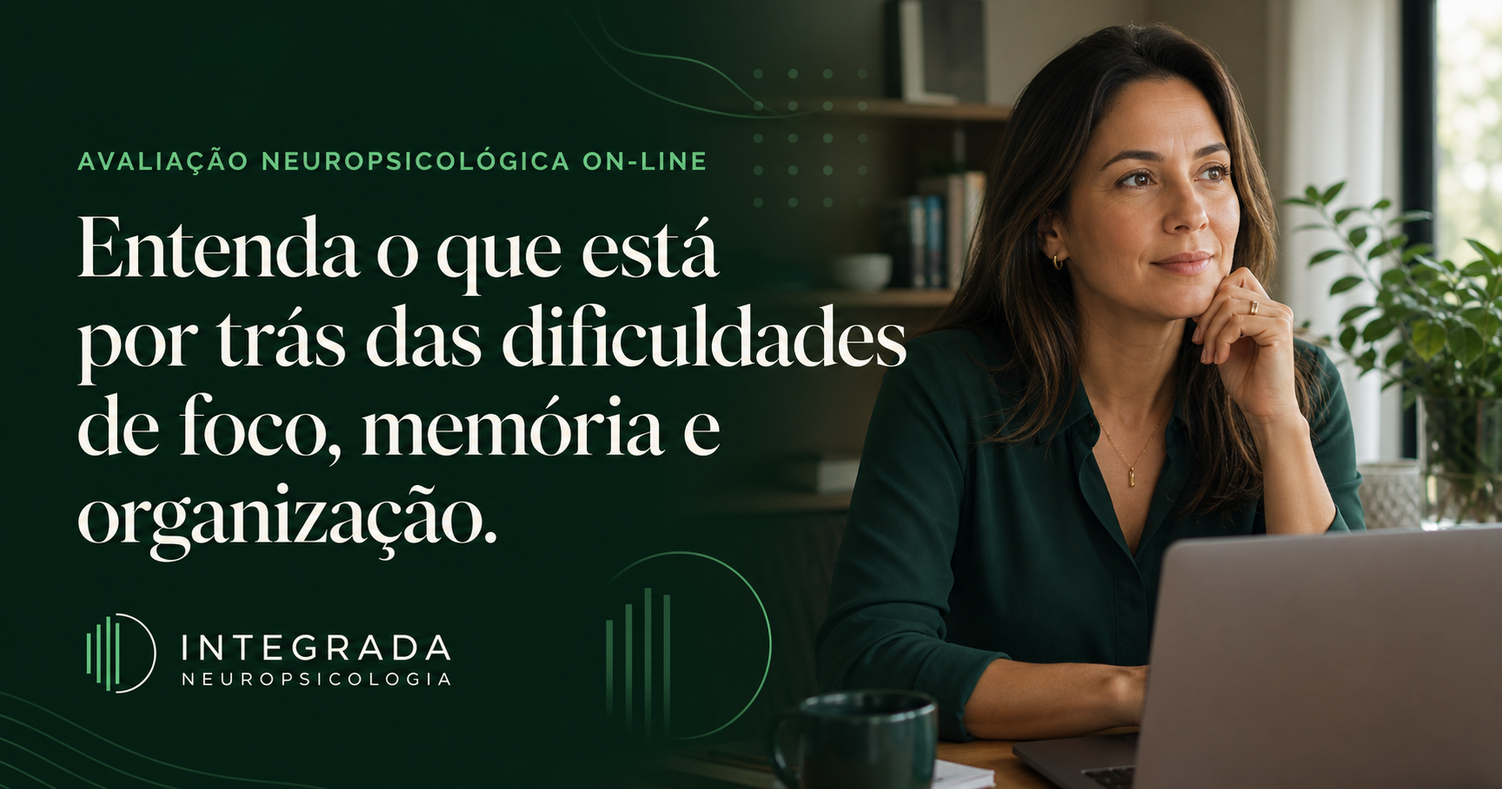
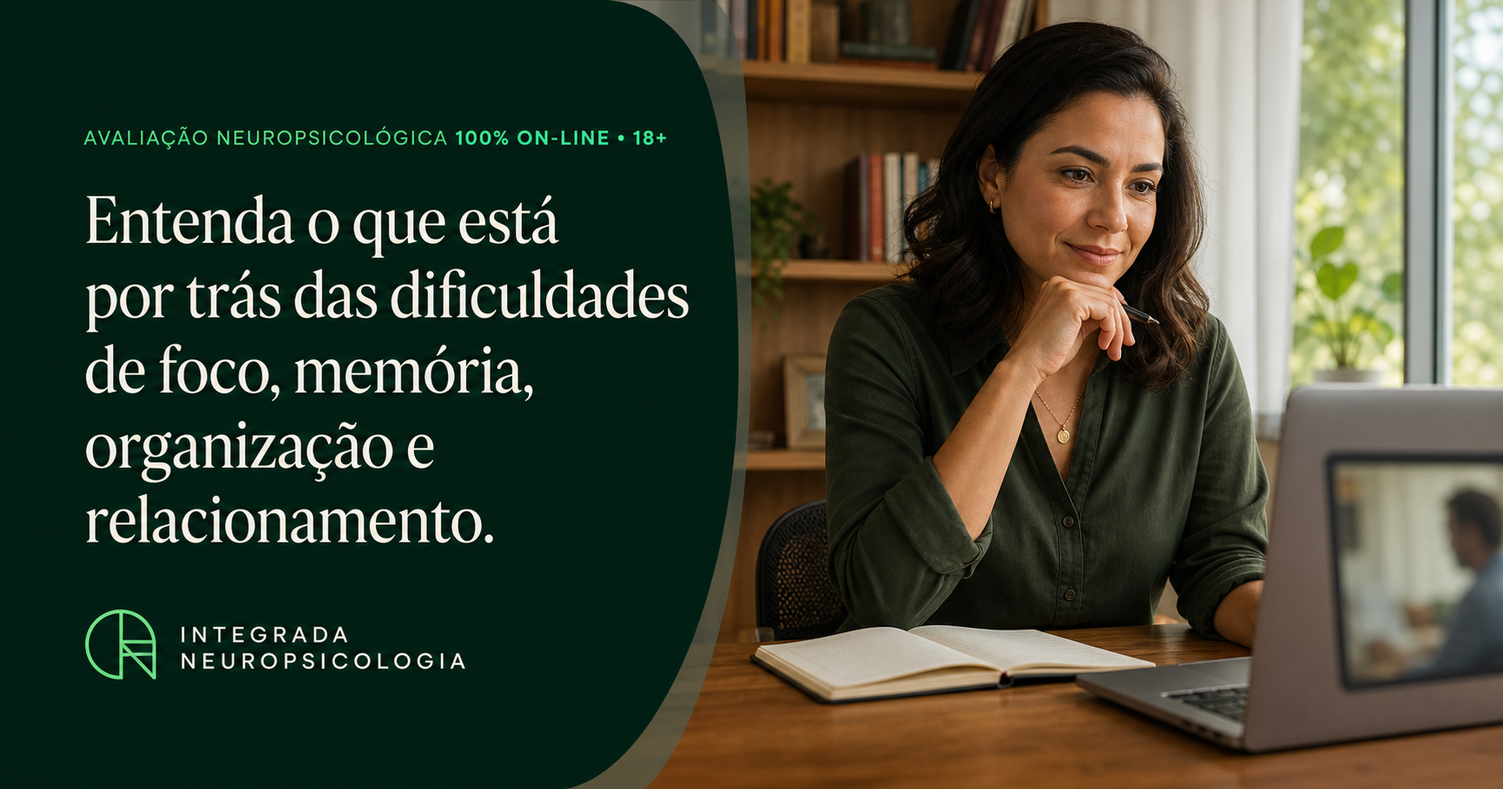
Ajusta landing da avaliação on-line

diff --git a/app/page.tsx b/app/page.tsx
@@ -2,40 +2,44 @@ import Image from "next/image";
 import { OnlineAssessmentLeadForm } from "@/components/OnlineAssessmentLeadForm";
 import { whatsappUrl } from "@/lib/site-data";
 
-const directContact = whatsappUrl("Olá! Quero saber se a avaliação neuropsicológica on-line para adultos é indicada para mim.");
+const directContact = whatsappUrl("Olá! Quero saber como funciona a avaliação neuropsicológica 100% on-line para brasileiros com 18 anos ou mais.");
 
 const signals = [
   ["Foco que escapa", "Você perde o fio em reuniões, leituras ou conversas, mesmo quando tenta prestar atenção."],
   ["Rotina difícil de organizar", "Prazos, compromissos e tarefas parecem exigir muito mais esforço do que deveriam."],
   ["Esquecimentos frequentes", "Informações, objetos e decisões importantes somem da memória no meio do dia."],
   ["Produtividade instável", "Há dias de hiperfoco e outros em que começar ou concluir algo parece impossível."],
-  ["Sobrecarga mental", "Você mantém tudo funcionando por fora, mas sente cansaço, culpa ou frustração por dentro."],
+  ["Sobrecarga sensorial", "Luzes, sons, cheiros, texturas ou ambientes movimentados podem causar exaustão e exigir tempo para se recuperar."],
+  ["Interações que exigem muito", "Conversas em grupo, códigos implícitos e expectativas sociais podem exigir monitoramento constante e deixar você esgotado."],
+  ["Mudanças que desorganizam", "Alterações inesperadas de planos, rotinas ou contextos podem gerar desconforto e dificultar a retomada do dia."],
+  ["Cansaço de se adaptar", "Você ensaia respostas, imita comportamentos ou esconde desconfortos para parecer dar conta — e termina exausto."],
   ["Dúvidas sem resposta", "TDAH, autismo, ansiedade ou burnout parecem explicar partes do que acontece — mas não o todo."],
 ] as const;
 
 const benefits = [
   ["Investigação além do sintoma", "Cognição, emoções, histórico e rotina são integrados para compreender o impacto real das dificuldades."],
-  ["Comodidade com critério clínico", "As sessões acontecem sem deslocamento quando o formato remoto é adequado à sua demanda."],
+  ["Processo planejado para o on-line", "Da entrevista à devolutiva, todas as etapas são organizadas para acontecer a distância, com procedimentos adequados à modalidade."],
   ["Processo explicado com clareza", "Você entende o objetivo de cada etapa e quais perguntas a avaliação busca responder."],
   ["Devolutiva que orienta", "Os resultados são apresentados em linguagem acessível, com recomendações e encaminhamentos quando necessários."],
 ] as const;
 
 const process = [
-  ["01", "Contato e triagem", "A equipe conhece sua demanda e verifica se o formato on-line é clínica e tecnicamente indicado."],
+  ["01", "Contato e alinhamento", "A equipe conhece sua demanda, explica como funciona a avaliação on-line e orienta sobre as condições necessárias para começar."],
   ["02", "Entrevista inicial", "Histórico, dificuldades atuais e objetivos são organizados para planejar a investigação."],
   ["03", "Sessões de avaliação", "Procedimentos e instrumentos adequados à modalidade remota são selecionados para o seu caso, conforme as normas profissionais."],
   ["04", "Integração dos dados", "As informações são analisadas em conjunto, considerando funcionamento cognitivo, emocional e cotidiano."],
-  ["05", "Devolutiva e laudo", "Você recebe uma explicação clara dos achados, documentação cabível e orientação para os próximos passos."],
+  ["05", "Devolutiva e documentação", "Você recebe uma explicação clara dos achados, documentação cabível e orientação para os próximos passos."],
 ] as const;
 
 const faqs = [
-  ["Para quem é a avaliação neuropsicológica on-line?", "Para adultos que desejam compreender dificuldades cognitivas ou comportamentais com impacto na rotina, nos estudos, no trabalho ou nos relacionamentos. A indicação depende de uma triagem inicial."],
-  ["Ela pode investigar TDAH ou autismo em adultos?", "Pode contribuir para a investigação dessas e de outras hipóteses. Nenhum teste isolado confirma um diagnóstico, e a avaliação não garante que uma hipótese inicial será confirmada."],
-  ["Todo o processo acontece on-line?", "Somente quando a triagem identifica que o formato remoto é adequado. Alguns casos podem exigir etapas presenciais ou investigação complementar."],
-  ["Os instrumentos são adequados ao formato remoto?", "Sim. A escolha depende do objetivo da avaliação e considera apenas procedimentos e instrumentos adequados à aplicação on-line, conforme as normas profissionais vigentes."],
-  ["Quanto tempo dura?", "O processo costuma ser organizado em 8 encontros. A duração e o planejamento final dependem da demanda e são confirmados após a triagem e a entrevista inicial."],
+  ["Para quem é a avaliação neuropsicológica on-line?", "Para brasileiros com 18 anos ou mais, no Brasil ou no exterior, que desejam compreender dificuldades cognitivas, emocionais ou comportamentais com impacto na rotina, nos estudos, no trabalho ou nos relacionamentos."],
+  ["Ela pode investigar TDAH ou autismo em pessoas com 18 anos ou mais?", "Pode contribuir para a investigação dessas e de outras hipóteses. Nenhum teste isolado confirma um diagnóstico, e a avaliação não garante que uma hipótese inicial será confirmada."],
+  ["Todo o processo acontece on-line?", "Sim. A avaliação foi planejada para acontecer integralmente on-line, da entrevista inicial à devolutiva e à entrega da documentação."],
+  ["Os instrumentos são adequados ao formato remoto?", "Sim. São selecionados procedimentos e instrumentos compatíveis com a aplicação on-line e com o objetivo da avaliação, conforme as normas profissionais vigentes."],
+  ["Quanto tempo dura?", "O processo costuma ser organizado em torno de 8 encontros. A duração e o planejamento são definidos conforme a demanda e organizados a partir da entrevista inicial."],
   ["O que preciso para participar?", "Em geral, conexão estável, câmera, computador ou notebook e um ambiente silencioso e privativo. As orientações específicas são fornecidas antes do início."],
-  ["Receberei uma devolutiva?", "Sim. Ao final, os resultados são explicados e a documentação correspondente ao escopo da avaliação é apresentada, quando indicada."],
+  ["Vocês atendem brasileiros que vivem no exterior?", "Sim. O atendimento on-line também recebe brasileiros que vivem em outros países. Os horários dos encontros são combinados considerando o fuso de cada pessoa."],
+  ["Receberei uma devolutiva?", "Sim. Ao final, os resultados são explicados e é apresentada a documentação correspondente ao escopo da avaliação e às normas aplicáveis."],
 ] as const;
 
 export default function Home() {
@@ -57,16 +61,16 @@ export default function Home() {
       <main>
         <section className="lp-hero" id="inicio">
           <div className="lp-hero-copy">
-            <span className="lp-kicker"><i aria-hidden="true" /> On-line • Adultos • Todo o Brasil</span>
-            <h1>Entenda o que está por trás das dificuldades de <em>foco, memória e organização.</em></h1>
+            <span className="lp-kicker"><i aria-hidden="true" /> On-line • Brasileiros 18+ • Brasil e exterior</span>
+            <h1>Entenda o que está por trás das dificuldades de <em>foco, memória, organização e relacionamento.</em></h1>
             <p className="lp-hero-lede">Uma investigação clínica cuidadosa para compreender como essas dificuldades afetam sua rotina, seu trabalho e seus relacionamentos — com devolutiva clara e orientação sobre os próximos passos.</p>
             <ul className="lp-hero-points">
               <li><span aria-hidden="true">✓</span> Atendimento individual e humanizado</li>
-              <li><span aria-hidden="true">✓</span> Sessões on-line, quando indicadas</li>
-              <li><span aria-hidden="true">✓</span> Triagem para confirmar a modalidade on-line</li>
+              <li><span aria-hidden="true">✓</span> Avaliação planejada para ser 100% on-line</li>
+              <li><span aria-hidden="true">✓</span> Brasileiros com 18 anos ou mais, no Brasil e no exterior</li>
             </ul>
             <div className="lp-hero-actions">
-              <a className="lp-primary-button" href={directContact} target="_blank" rel="noreferrer">Quero saber se é indicada para mim <span aria-hidden="true">→</span></a>
+              <a className="lp-primary-button" href={directContact} target="_blank" rel="noreferrer">Quero conversar com a equipe <span aria-hidden="true">→</span></a>
               <a className="lp-quiet-link" href="#como-funciona">Entender como funciona <span aria-hidden="true">↓</span></a>
             </div>
             <p className="lp-hero-note">Você não precisa chegar com um diagnóstico pronto. O primeiro passo é entender o que tem acontecido.</p>
@@ -74,18 +78,18 @@ export default function Home() {
 
           <div className="lp-hero-panel">
             <div className="lp-hero-image">
-              <Image src="/assets/online.avif" alt="Adulto em atendimento neuropsicológico on-line" width={306} height={221} sizes="(max-width: 900px) 100vw, 42vw" priority unoptimized />
-              <div className="lp-image-badge"><strong>14+ anos</strong><span>de experiência clínica</span></div>
+              <Image src="/assets/hero-online.webp" alt="Pessoa adulta participando de avaliação neuropsicológica on-line em ambiente privativo" width={1200} height={630} sizes="(max-width: 900px) 200vw, 84vw" priority unoptimized />
+              <div className="lp-image-badge"><strong>Mais de 15 anos</strong><span>de experiência clínica</span></div>
             </div>
             <OnlineAssessmentLeadForm placement="hero" />
           </div>
         </section>
 
         <section className="lp-proof" aria-label="Diferenciais do atendimento">
-          <div><strong>100% on-line</strong><span>quando indicado na triagem</span></div>
-          <div><strong>Em torno de 8 encontros</strong><span>planejamento confirmado na triagem</span></div>
-          <div><strong>Documentação digital</strong><span>conforme o escopo da avaliação</span></div>
-          <div><strong>Orientação prática</strong><span>para os próximos passos</span></div>
+          <div><strong>100% on-line</strong><span>da entrevista à devolutiva</span></div>
+          <div><strong>Brasileiros 18+</strong><span>no Brasil e no exterior</span></div>
+          <div><strong>Em torno de 8 encontros</strong><span>planejamento individualizado</span></div>
+          <div><strong>Documentação digital</strong><span>com devolutiva individual</span></div>
         </section>
 
         <section className="lp-signals" id="para-quem">
@@ -104,14 +108,15 @@ export default function Home() {
             ))}
           </div>
           <div className="lp-inline-cta">
-            <p><strong>Esses sinais não definem um diagnóstico.</strong> Eles mostram que pode ser útil olhar para o conjunto com mais cuidado.</p>
-            <a className="lp-dark-button" href={whatsappUrl("Olá! Quero conversar sobre dificuldades de foco, memória ou organização e entender se devo fazer uma avaliação on-line.")} target="_blank" rel="noreferrer">Conversar sobre minhas dificuldades <span aria-hidden="true">→</span></a>
+            <p><strong>Esses sinais podem ocorrer por diferentes motivos e não definem um diagnóstico.</strong> Eles mostram que pode ser útil olhar para o conjunto com mais cuidado.</p>
+            <a className="lp-dark-button" href={whatsappUrl("Olá! Quero conversar sobre dificuldades de foco, memória, organização ou relacionamento e entender melhor a avaliação neuropsicológica on-line.")} target="_blank" rel="noreferrer">Conversar sobre minhas dificuldades <span aria-hidden="true">→</span></a>
           </div>
         </section>
 
         <section className="lp-clarity">
           <div className="lp-clarity-visual">
-            <Image src="/assets/adulto.avif" alt="Adulto durante uma avaliação neuropsicológica" width={306} height={221} sizes="(max-width: 900px) 100vw, 45vw" unoptimized />
+            <span className="lp-clarity-orbit" aria-hidden="true" />
+            <span className="lp-clarity-dots" aria-hidden="true">•••••••••</span>
             <div className="lp-clarity-quote"><span>Não é um teste rápido.</span><strong>É um processo clínico que conecta história, funcionamento e vida real.</strong></div>
           </div>
           <div className="lp-clarity-copy">
@@ -133,7 +138,7 @@ export default function Home() {
           <div className="lp-professional-copy">
             <span className="lp-section-label">Responsabilidade profissional</span>
             <h2 id="responsavel-title">Você sabe quem responde pelo seu atendimento.</h2>
-            <p>A identificação profissional faz parte de um cuidado transparente. Desde o primeiro contato, a equipe explica o alcance, os limites e as etapas da avaliação.</p>
+            <p>Carla atua há mais de 15 anos na Psicologia e mantém um cuidado transparente. Desde o primeiro contato, a equipe explica o alcance, os limites e as etapas da avaliação.</p>
           </div>
           <div className="lp-professional-card">
             <span className="lp-professional-mark" aria-hidden="true">CL</span>
@@ -145,7 +150,7 @@ export default function Home() {
           <div className="lp-section-intro">
             <span className="lp-section-label">Como funciona</span>
             <h2>Um processo estruturado, adaptado à sua necessidade.</h2>
-            <p>Em geral, a avaliação on-line é organizada em 8 encontros. A triagem confirma o plano e se a modalidade remota é indicada.</p>
+            <p>Em geral, a avaliação é organizada em torno de 8 encontros e planejada para acontecer integralmente on-line. O plano é definido conforme a demanda e o histórico apresentados.</p>
           </div>
           <ol className="lp-process-list">
             {process.map(([number, title, text]) => (
@@ -157,20 +162,20 @@ export default function Home() {
           </ol>
           <aside className="lp-responsible-note">
             <span aria-hidden="true">i</span>
-            <p><strong>Orientação responsável:</strong> a avaliação on-line não é indicada para todos os casos. A triagem considera a demanda clínica, o ambiente, os recursos tecnológicos e a adequação dos procedimentos e instrumentos. Quando necessário, a equipe orienta uma alternativa presencial ou complementar.</p>
+            <p><strong>Orientação responsável:</strong> esta avaliação on-line é indicada para pessoas com 18 anos ou mais e foi planejada para acontecer integralmente a distância. Os procedimentos e instrumentos são selecionados para a modalidade remota e para os objetivos clínicos de cada pessoa.</p>
           </aside>
         </section>
 
         <section className="lp-fit">
           <div className="lp-fit-copy">
-            <span className="lp-section-label">Antes de começar</span>
-            <h2>O formato on-line combina com a sua realidade?</h2>
-            <p>Não é preciso decidir sozinho. No primeiro contato, a equipe verifica os pontos essenciais e explica o caminho mais seguro.</p>
+            <span className="lp-section-label">Preparação para os encontros</span>
+            <h2>O que você precisa para realizar a avaliação on-line?</h2>
+            <p>Antes do início, a equipe orienta sobre os recursos e combina os detalhes para que todas as etapas aconteçam com privacidade e estabilidade.</p>
           </div>
           <div className="lp-fit-cards">
             <article><span aria-hidden="true">01</span><h3>Privacidade</h3><p>Um ambiente silencioso e reservado para conversar e realizar as atividades.</p></article>
             <article><span aria-hidden="true">02</span><h3>Estrutura</h3><p>Computador ou notebook, câmera e conexão estável durante os encontros.</p></article>
-            <article><span aria-hidden="true">03</span><h3>Adequação clínica</h3><p>Uma demanda que possa ser investigada com procedimentos compatíveis com o remoto.</p></article>
+            <article><span aria-hidden="true">03</span><h3>Disponibilidade</h3><p>Tempo reservado para participar dos encontros e realizar as atividades com tranquilidade.</p></article>
           </div>
         </section>
 
@@ -178,10 +183,10 @@ export default function Home() {
           <div className="lp-contact-copy">
             <span className="lp-section-label">Seu próximo passo</span>
             <h2>Transforme a dúvida em uma conversa clara.</h2>
-            <p>Conte brevemente o que está acontecendo. A equipe explica a avaliação, verifica a indicação do formato on-line e orienta como seguir.</p>
+            <p>Conte brevemente o que está acontecendo. A equipe explica as etapas da avaliação on-line, esclarece suas dúvidas e orienta como começar.</p>
             <ul>
               <li><span aria-hidden="true">✓</span> Sem compromisso de iniciar a avaliação</li>
-              <li><span aria-hidden="true">✓</span> Atendimento para adultos em todo o Brasil</li>
+              <li><span aria-hidden="true">✓</span> Brasileiros com 18 anos ou mais, no Brasil e no exterior</li>
               <li><span aria-hidden="true">✓</span> Resposta diretamente pelo WhatsApp</li>
             </ul>
           </div>
@@ -211,12 +216,12 @@ export default function Home() {
 
       <footer className="lp-footer">
         <div className="lp-footer-brand"><Image src="/assets/logo.png" alt="" width={38} height={38} unoptimized /><span><strong>Integrada Neuropsicologia</strong><small>Avaliando o presente, transformando o futuro.</small></span></div>
-        <div><strong>Atendimento</strong><span>On-line para adultos em todo o Brasil</span><span>Responsável técnica: Carla Luciana da Conceição Lima • Psicóloga • CRP 08/39739</span><a href="tel:+5541992113665">(41) 99211-3665</a></div>
-        <div><strong>Clínica em Curitiba</strong><span>Rua Jacarezinho, 1266, Mercês<br />CEP 80810-130 — Curitiba/PR</span></div>
+        <div><strong>Atendimento</strong><span>On-line para pessoas com 18 anos ou mais — brasileiros no Brasil e em outros países</span><span>Responsável técnica: Carla Luciana da Conceição Lima • Psicóloga • CRP 08/39739</span><a href="tel:+5541992113665">(41) 99211-3665</a></div>
+        <div><strong>Endereço profissional</strong><span>Rua Jacarezinho, 1266, Mercês<br />CEP 80810-130 — Curitiba/PR</span></div>
         <p>© {new Date().getFullYear()} Integrada Neuropsicologia. O conteúdo deste site é informativo e não substitui avaliação individual.</p>
       </footer>
 
-      <a className="lp-floating-cta" href={directContact} target="_blank" rel="noreferrer" aria-label="Fazer triagem pelo WhatsApp">Fazer triagem <span aria-hidden="true">→</span></a>
+      <a className="lp-floating-cta" href={directContact} target="_blank" rel="noreferrer" aria-label="Conversar com a equipe pelo WhatsApp">Conversar pelo WhatsApp <span aria-hidden="true">→</span></a>
     </div>
   );
 }

diff --git a/app/globals.css b/app/globals.css
@@ -399,10 +399,10 @@ h1,h2 { font-family:"Madefor Display","Madefor",sans-serif; line-height:1.08; le
 .lp-hero-note { max-width:620px; margin:18px 0 0; color:#98aaa0; font-size:.75rem; }
 
 .lp-hero-panel { position:relative; z-index:2; overflow:hidden; border:1px solid rgba(255,255,255,.14); border-radius:28px; background:#fff; box-shadow:0 34px 80px rgba(0,0,0,.27); color:var(--lp-ink); }
-.lp-hero-image { position:relative; height:155px; overflow:hidden; background:#d8e1dc; }
-.lp-hero-image img { width:100%; height:100%; object-fit:cover; object-position:center 46%; filter:saturate(.82) contrast(.97); }
-.lp-image-badge { position:absolute; right:16px; bottom:14px; min-width:126px; display:flex; flex-direction:column; border-radius:14px; padding:11px 14px; background:rgba(10,39,27,.92); color:#fff; box-shadow:0 10px 25px rgba(0,0,0,.2); }
-.lp-image-badge strong { font-family:"Madefor Display",sans-serif; font-size:1.15rem; }
+.lp-hero-image { position:relative; height:225px; overflow:hidden; background:#173d2d; }
+.lp-hero-image img { width:200%; max-width:none; height:100%; object-fit:cover; object-position:center 28%; transform:translateX(-50%); filter:saturate(.82) contrast(.97); }
+.lp-image-badge { position:absolute; right:16px; bottom:14px; min-width:158px; display:flex; flex-direction:column; border-radius:14px; padding:11px 14px; background:rgba(10,39,27,.92); color:#fff; box-shadow:0 10px 25px rgba(0,0,0,.2); }
+.lp-image-badge strong { font-family:"Madefor Display",sans-serif; font-size:1.04rem; white-space:nowrap; }
 .lp-image-badge span { color:#c8d8cf; font-size:.66rem; }
 
 .lp-lead-form { padding:30px; background:#fff; color:var(--lp-ink); }
@@ -443,9 +443,11 @@ h1,h2 { font-family:"Madefor Display","Madefor",sans-serif; line-height:1.08; le
 .lp-dark-button:hover { background:#114b34; }
 
 .lp-clarity { display:grid; grid-template-columns:minmax(320px,.82fr) minmax(0,1.18fr); background:var(--lp-cream); }
-.lp-clarity-visual { display:flex; min-height:760px; flex-direction:column; align-items:center; justify-content:center; gap:24px; overflow:hidden; padding:72px clamp(34px,6vw,76px); background:radial-gradient(circle at 75% 25%,rgba(77,224,143,.2),transparent 34%),var(--lp-deep); }
-.lp-clarity-visual>img { width:min(100%,360px); height:auto; max-height:390px; border-radius:24px; object-fit:cover; filter:saturate(.78); box-shadow:0 30px 75px rgba(0,0,0,.28); }
-.lp-clarity-quote { display:flex; width:min(100%,460px); flex-direction:column; border:1px solid rgba(255,255,255,.12); border-radius:18px; padding:25px; background:rgba(5,27,19,.88); color:#fff; backdrop-filter:blur(10px); }
+.lp-clarity-visual { position:relative; display:flex; min-height:760px; flex-direction:column; align-items:center; justify-content:center; gap:24px; overflow:hidden; padding:72px clamp(34px,6vw,76px); background:radial-gradient(circle at 75% 25%,rgba(77,224,143,.2),transparent 34%),var(--lp-deep); }
+.lp-clarity-orbit { position:absolute; width:min(72%,430px); aspect-ratio:1; border:1px solid rgba(126,232,172,.33); border-radius:50%; box-shadow:0 0 0 60px rgba(77,224,143,.035),0 0 0 120px rgba(77,224,143,.025); }
+.lp-clarity-orbit:after { position:absolute; top:50%; left:50%; width:12px; height:12px; border-radius:50%; background:#72e6a5; box-shadow:0 0 0 10px rgba(114,230,165,.12); content:""; transform:translate(-50%,-50%); }
+.lp-clarity-dots { position:absolute; top:13%; right:10%; max-width:150px; color:rgba(114,230,165,.46); font-size:1.3rem; letter-spacing:.55em; line-height:1.9; overflow-wrap:anywhere; }
+.lp-clarity-quote { position:relative; z-index:1; display:flex; width:min(100%,460px); flex-direction:column; border:1px solid rgba(255,255,255,.12); border-radius:18px; padding:30px; background:rgba(5,27,19,.88); color:#fff; backdrop-filter:blur(10px); }
 .lp-clarity-quote span { margin-bottom:7px; color:#8ce9b5; font-size:.7rem; font-weight:900; letter-spacing:.1em; text-transform:uppercase; }
 .lp-clarity-quote strong { font-family:"Madefor Display",sans-serif; font-size:clamp(1.2rem,2vw,1.65rem); line-height:1.28; }
 .lp-clarity-copy { padding:100px max(38px,calc((100vw - 1180px)/2)) 100px 8vw; padding-right:max(24px,calc((100vw - 1180px)/2)); }
@@ -560,7 +562,7 @@ h1,h2 { font-family:"Madefor Display","Madefor",sans-serif; line-height:1.08; le
   .lp-kicker { font-size:.63rem; }
   .lp-hero-actions { align-items:flex-start; flex-direction:column; gap:18px; }
   .lp-primary-button,.lp-dark-button,.lp-light-button { width:100%; min-height:52px; padding:0 20px; text-align:center; }
-  .lp-hero-image { height:135px; }
+  .lp-hero-image { height:175px; }
   .lp-lead-form { padding:25px 20px; }
   .lp-lead-form input,.lp-lead-form select,.lp-lead-form textarea { font-size:1rem; }
   .lp-proof { grid-template-columns:1fr; padding:0 20px; }

diff --git a/components/OnlineAssessmentLeadForm.tsx b/components/OnlineAssessmentLeadForm.tsx
@@ -11,6 +11,8 @@ const interestOptions = [
   "Atenção, foco ou organização",
   "Suspeita de TDAH",
   "Suspeita de autismo (TEA)",
+  "Relacionamentos ou interação social",
+  "Sensibilidade sensorial ou necessidade de rotina",
   "Memória ou desempenho cognitivo",
   "Diferenciar ansiedade, burnout ou outro quadro",
   "Outro motivo",
@@ -27,11 +29,10 @@ export function OnlineAssessmentLeadForm({ placement }: OnlineAssessmentLeadForm
     const interest = String(data.get("interest") ?? "").trim();
     const message = String(data.get("message") ?? "").trim();
     const text = [
-      "Olá! Tenho interesse em avaliação neuropsicológica on-line para adultos.",
+      "Olá! Tenho interesse na avaliação neuropsicológica on-line para brasileiros com 18 anos ou mais.",
       `Nome: ${name}`,
       `Quero compreender melhor: ${interest}`,
       message ? `Contexto: ${message}` : null,
-      `Origem: landing page — ${placement === "hero" ? "primeira seção" : "seção de contato"}`,
     ].filter(Boolean).join("\n");
 
     setSubmitted(true);
@@ -43,9 +44,9 @@ export function OnlineAssessmentLeadForm({ placement }: OnlineAssessmentLeadForm
   return (
     <form className={`lp-lead-form lp-lead-form-${placement}`} onSubmit={handleSubmit}>
       <div className="lp-form-heading">
-        <span>Orientação inicial</span>
+        <span>Primeiro contato</span>
         <h2>Conte o que você quer entender.</h2>
-        <p>A equipe avalia sua demanda e explica se o formato on-line é adequado ao seu caso.</p>
+        <p>A equipe conhece sua demanda, explica como funciona a avaliação 100% on-line e orienta sobre os próximos passos.</p>
       </div>
 
       <label htmlFor={`${formId}-name`}>Como podemos chamar você?</label>
@@ -60,7 +61,7 @@ export function OnlineAssessmentLeadForm({ placement }: OnlineAssessmentLeadForm
       <label htmlFor={`${formId}-message`}>Quer acrescentar algo? <span>(opcional)</span></label>
       <textarea id={`${formId}-message`} name="message" rows={3} placeholder="Ex.: isso está afetando meu trabalho e minha rotina" />
 
-      <button type="submit" className="lp-primary-button lp-form-submit">Quero conversar sobre meu caso <span aria-hidden="true">→</span></button>
+      <button type="submit" className="lp-primary-button lp-form-submit">Quero conversar sobre a avaliação <span aria-hidden="true">→</span></button>
       <p className="lp-form-note">Os dados digitados preparam uma mensagem para a equipe no WhatsApp, que você revisa antes de enviar. Nada fica armazenado neste site. Não envie exames ou documentos neste primeiro contato.</p>
       {submitted && <p className="lp-form-status" role="status">Conversa preparada. Se o WhatsApp não abriu, envie novamente.</p>}
     </form>

diff --git a/app/layout.tsx b/app/layout.tsx
@@ -11,11 +11,11 @@ export async function generateMetadata(): Promise<Metadata> {
   const origin = `${protocol}://${host}`;
   return {
     metadataBase: new URL(origin),
-    title: { default: "Avaliação Neuropsicológica On-line para Adultos | Integrada Neuropsicologia", template: "%s | Integrada Neuropsicologia" },
-    description: "Avaliação neuropsicológica on-line para adultos que querem compreender dificuldades de foco, memória e organização, com triagem responsável e orientação clara.",
+    title: { default: "Avaliação Neuropsicológica On-line para Adultos (18+) | Integrada Neuropsicologia", template: "%s | Integrada Neuropsicologia" },
+    description: "Avaliação neuropsicológica 100% on-line para pessoas com 18 anos ou mais, incluindo brasileiros no Brasil e no exterior, que desejam compreender dificuldades de foco, memória, organização e relacionamento.",
     icons: { icon: "/assets/logo.png", shortcut: "/assets/logo.png", apple: "/assets/logo.png" },
-    openGraph: { type: "website", locale: "pt_BR", siteName: "Integrada Neuropsicologia", title: "Avaliação Neuropsicológica On-line para Adultos", description: "Entenda o que está por trás das dificuldades de foco, memória e organização.", images: [{ url: `${origin}/og.png`, alt: "Avaliação neuropsicológica on-line para adultos — Integrada Neuropsicologia" }] },
-    twitter: { card: "summary_large_image", title: "Avaliação Neuropsicológica On-line para Adultos", description: "Entenda o que está por trás das dificuldades de foco, memória e organização.", images: [`${origin}/og.png`] },
+    openGraph: { type: "website", locale: "pt_BR", siteName: "Integrada Neuropsicologia", title: "Avaliação Neuropsicológica On-line para Adultos (18+)", description: "Entenda o que está por trás das dificuldades de foco, memória, organização e relacionamento.", images: [{ url: `${origin}/og.png`, alt: "Avaliação neuropsicológica on-line para pessoas com 18 anos ou mais — Integrada Neuropsicologia" }] },
+    twitter: { card: "summary_large_image", title: "Avaliação Neuropsicológica On-line para Adultos (18+)", description: "Entenda o que está por trás das dificuldades de foco, memória, organização e relacionamento.", images: [`${origin}/og.png`] },
   };
 }
 

diff --git a/components/ServicePage.tsx b/components/ServicePage.tsx
@@ -27,7 +27,7 @@ export function ServicePage({ data }: { data: ServicePageData }) {
           <div className="service-hero-image"><Image src={data.image} alt={data.imageAlt} width={760} height={720} sizes="(max-width: 860px) 100vw, 45vw" priority unoptimized /></div>
         </section>
         <section className="trust-strip" aria-label="Diferenciais da clínica">
-          <div><strong>14+ anos</strong><span>de experiência clínica</span></div>
+          <div><strong>Mais de 15 anos</strong><span>de experiência clínica</span></div>
           <div><strong>Atendimento humano</strong><span>escuta antes de qualquer decisão</span></div>
           <div><strong>Laudo aplicável</strong><span>orientações claras para a rotina</span></div>
           <div><strong>Presencial e on-line</strong><span>cuidado que cabe na sua realidade</span></div>
@@ -56,7 +56,7 @@ export function ServicePage({ data }: { data: ServicePageData }) {
         </section>
 
         <section className="closing-band"><div><span className="eyebrow">Próximo passo</span><h2>{data.closingTitle}</h2><p>{data.closingText}</p></div><a className="button button-light" href={contact} target="_blank" rel="noreferrer">Ver disponibilidade</a></section>
-        <LeadForm context={data.eyebrow} />
+        <LeadForm />
       </main>
       <a className="whatsapp-float" href={contact} target="_blank" rel="noreferrer" aria-label="Falar com a Integrada pelo WhatsApp">WhatsApp</a>
       <SiteFooter />

diff --git a/components/LeadForm.tsx b/components/LeadForm.tsx
@@ -3,7 +3,7 @@
 import { FormEvent, useState } from "react";
 import { whatsappUrl } from "@/lib/site-data";
 
-export function LeadForm({ context = "Site da Integrada Neuropsicologia" }: { context?: string }) {
+export function LeadForm() {
   const [sent, setSent] = useState(false);
 
   function handleSubmit(event: FormEvent<HTMLFormElement>) {
@@ -11,7 +11,6 @@ export function LeadForm({ context = "Site da Integrada Neuropsicologia" }: { co
     const data = new FormData(event.currentTarget);
     const message = [
       "Olá! Preenchi o formulário do site.",
-      `Origem: ${context}`,
       `Nome: ${data.get("name")}`,
       `Interesse: ${data.get("interest")}`,
       `Mensagem: ${data.get("message") || "Não informada"}`,

diff --git a/components/ArticlePage.tsx b/components/ArticlePage.tsx
@@ -30,7 +30,7 @@ export function ArticlePage({ post }: { post: BlogPost }) {
             <div className="article-cta"><div><span className="eyebrow">Precisa de orientação?</span><h2>Transforme dúvida em um próximo passo claro.</h2></div><a className="button button-green" href={whatsappUrl(`Olá! Li o artigo “${post.title}” e gostaria de orientação.`)} target="_blank" rel="noreferrer">Falar com a equipe</a></div>
           </div>
         </article>
-        <LeadForm context={`Artigo: ${post.title}`} />
+        <LeadForm />
       </main>
       <SiteFooter />
     </>

diff --git a/components/ScreeningPage.tsx b/components/ScreeningPage.tsx
@@ -18,7 +18,7 @@ export function ScreeningPage({ screening }: { screening: Screening }) {
           <p className="screening-disclaimer"><strong>Antes de começar:</strong> este checklist promove reflexão e não é um instrumento diagnóstico. As respostas ficam somente nesta página e não são enviadas à clínica.</p>
           <ScreeningTest screening={screening} />
         </section>
-        <LeadForm context={screening.title} />
+        <LeadForm />
       </main>
       <SiteFooter />
     </>

diff --git a/components/BlogPage.tsx b/components/BlogPage.tsx
@@ -26,7 +26,7 @@ export function BlogPage() {
             </article>
           ))}
         </section>
-        <LeadForm context="Blog da Integrada" />
+        <LeadForm />
       </main>
       <SiteFooter />
     </>

diff --git a/README.md b/README.md
@@ -1,6 +1,6 @@
 # Integrada Neuropsicologia
 
-Site da Integrada Neuropsicologia, reconstruído em Next.js/vinext. A página inicial é uma landing page de captação para avaliação neuropsicológica on-line de adultos, com comunicação responsável, clara e orientada à conversão.
+Site da Integrada Neuropsicologia, reconstruído em Next.js/vinext. A página inicial é uma landing page de captação para avaliação neuropsicológica 100% on-line de brasileiros com 18 anos ou mais, no Brasil e no exterior, com comunicação responsável, clara e orientada à conversão.
 
 ## O que está incluído
 
